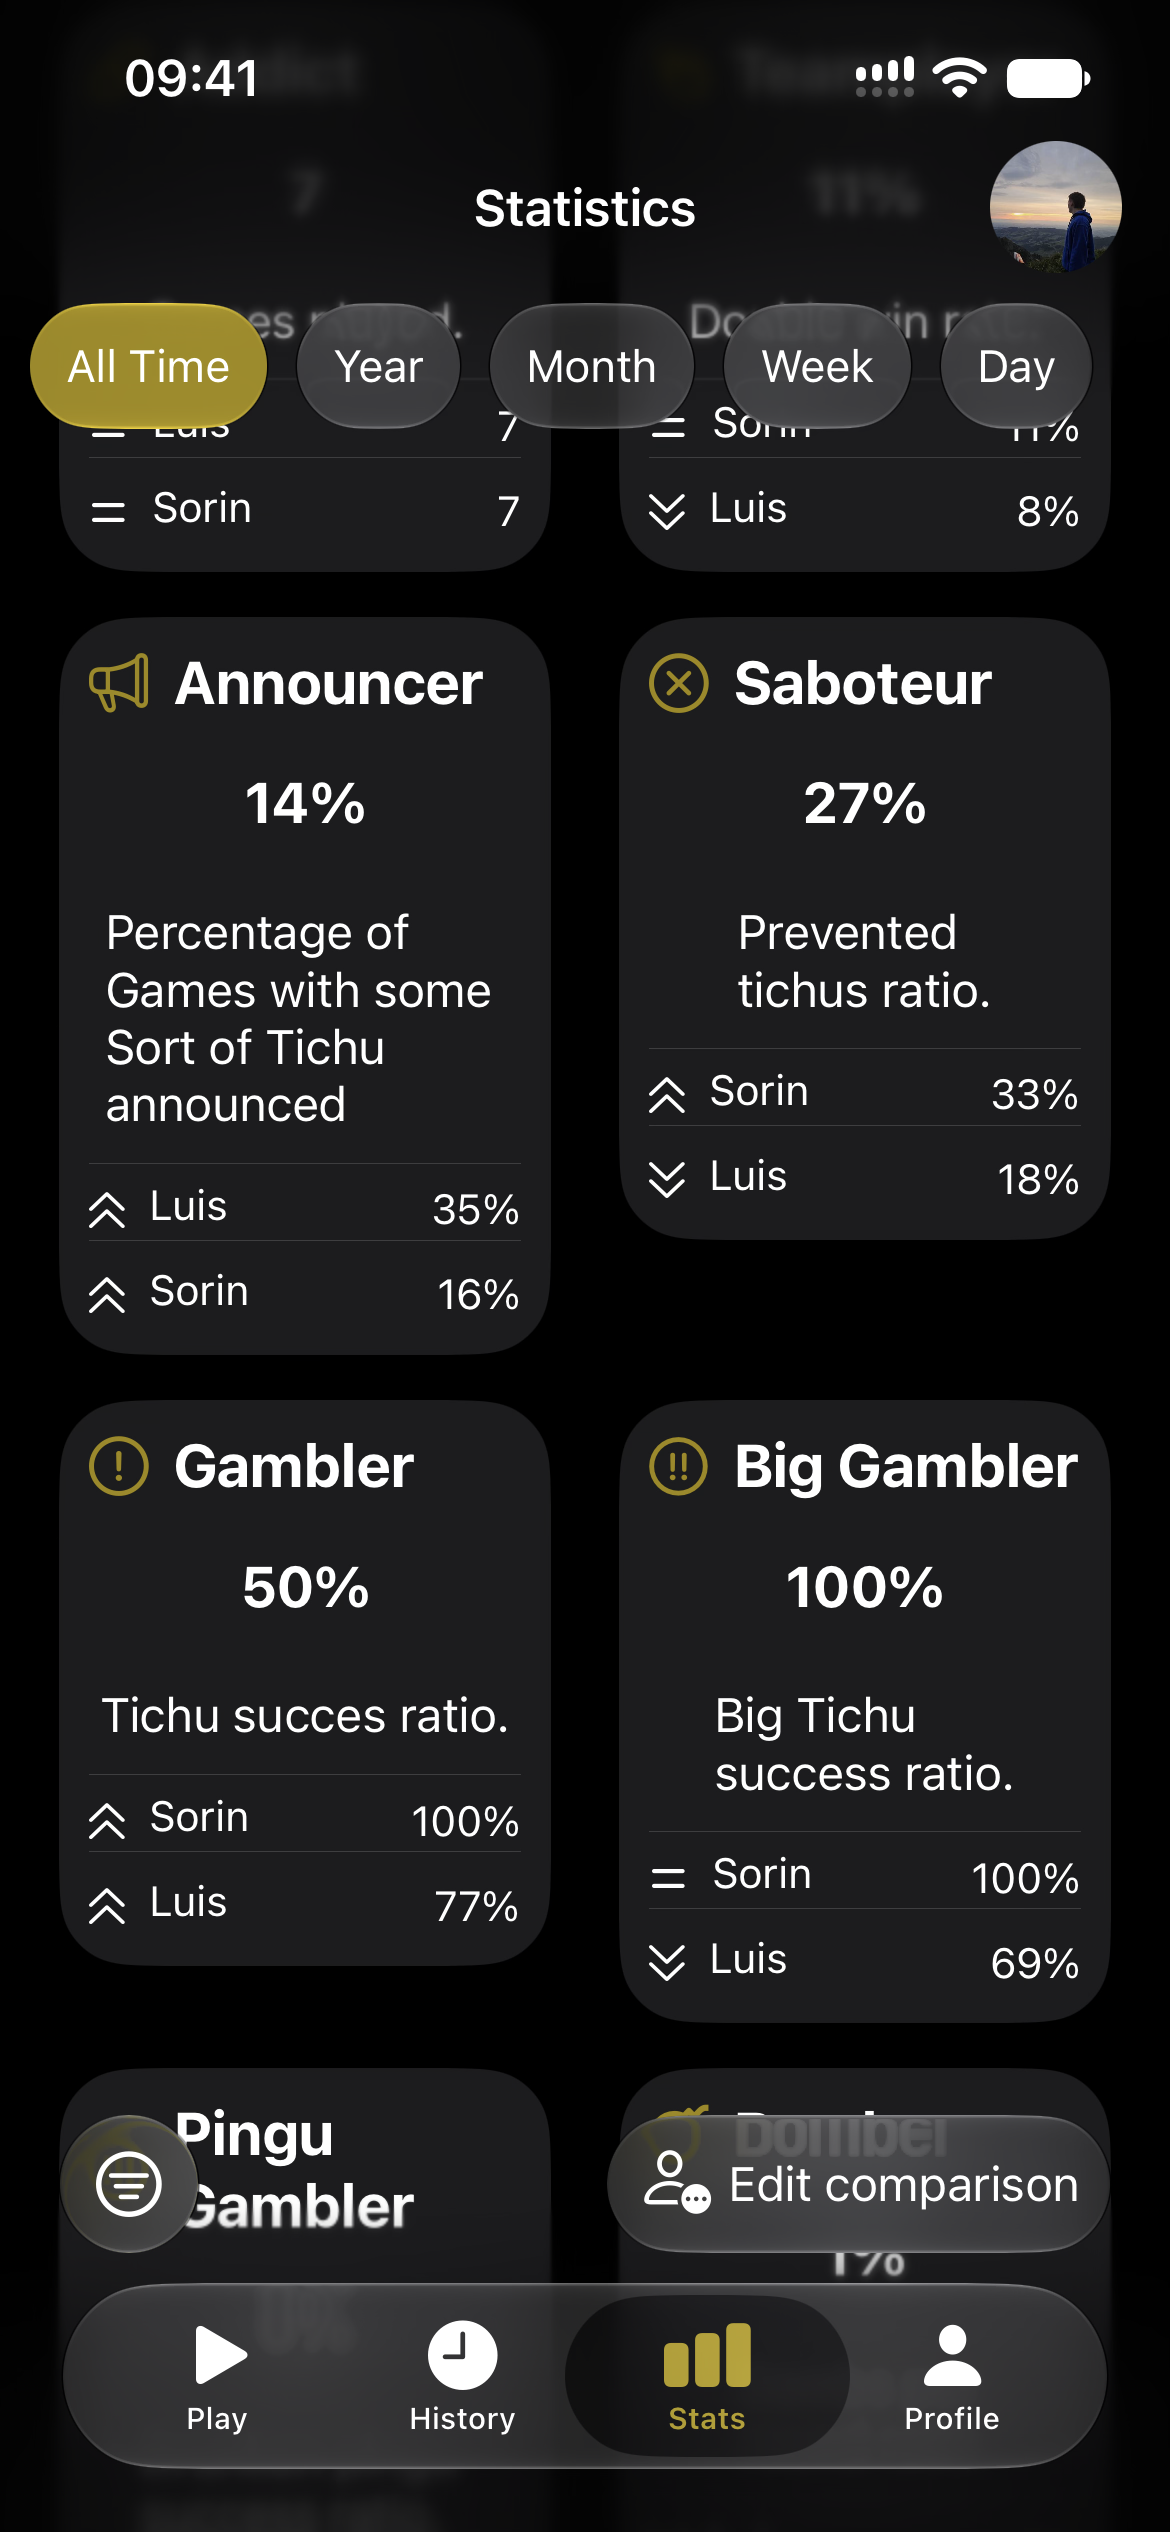
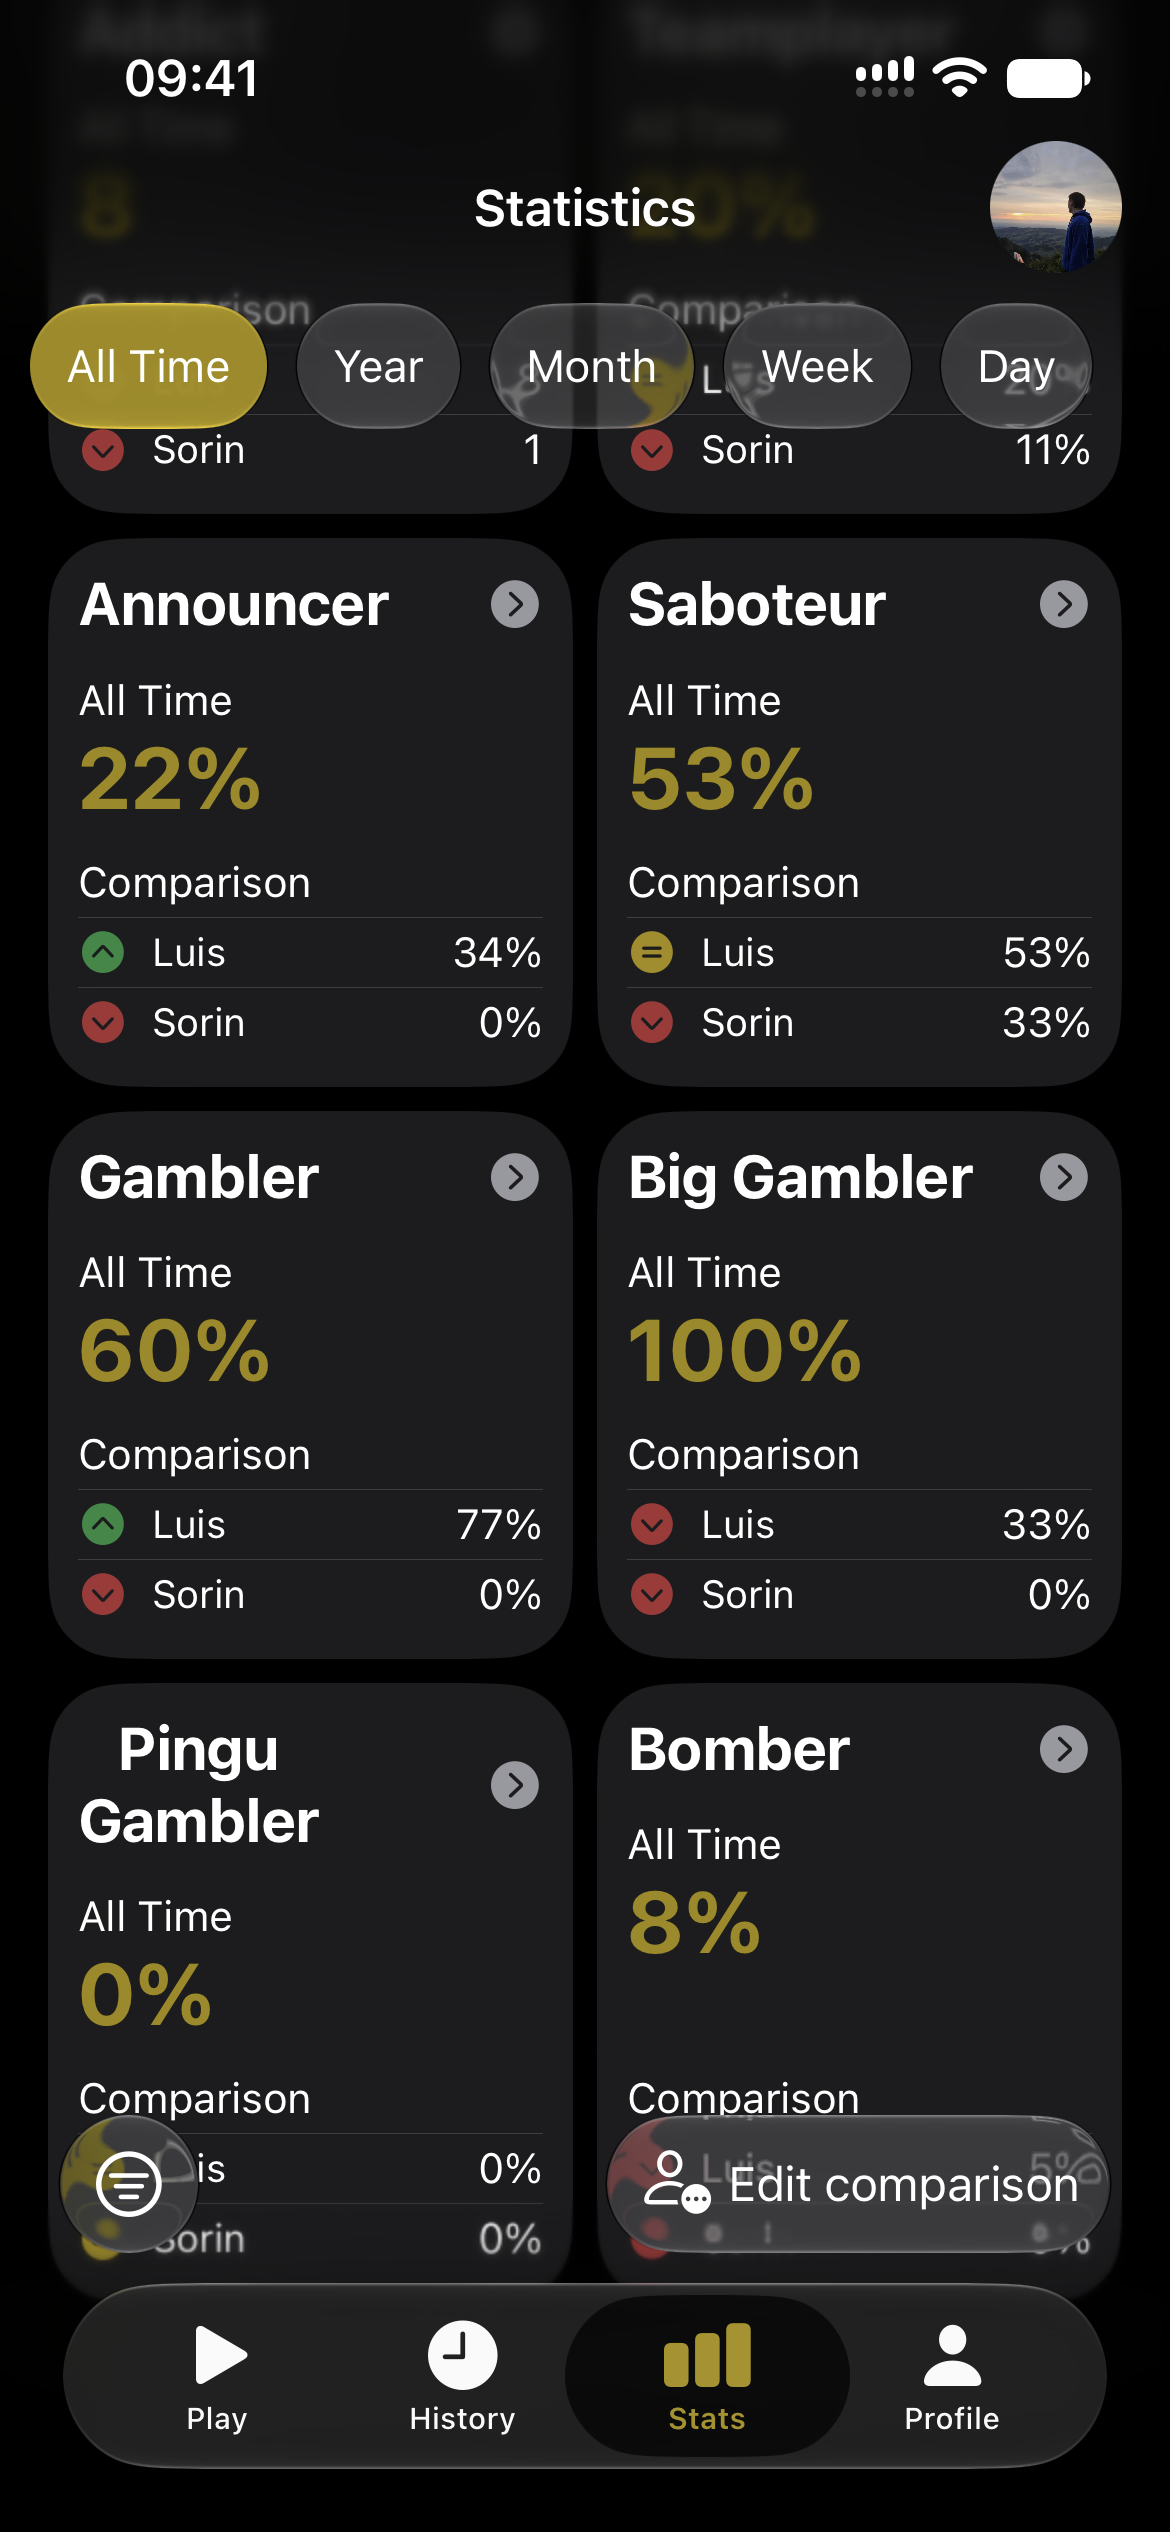
Updated Visuals reflecting changes inside the app

diff --git a/templates/main.html b/templates/main.html
@@ -32,7 +32,7 @@
         <p class="landing-subtitle">TichuStats allows you to effortlessly track scores and analyze your Tichu gameplay. Gain insights into your performance with statistics across five different timeframes, completely free and ad-free.</p>
 
         <div class="store-buttons">
-          <a href="https://www.youtube.com/watch?v=dQw4w9WgXcQ" aria-label="Download on App Store" >
+          <a href="https://testflight.apple.com/join/3gzksEDd" aria-label="Download on App Store" >
             <img src="{{ url_for('static', filename='download/downloadappstore.svg') }}" alt="Download on the App Store" />
           </a>
           <a href="" aria-label="Get it on Google Play" class="store-buttons-disabled">

diff --git a/static/styles.css b/static/styles.css
@@ -640,9 +640,9 @@ main {
 
 .tile-image-stats {
   margin-top: 10%;
-  width: 125%;
-  margin-left: -12.5%;
-  margin-right: -12.5%;
+  width: 200%;
+  margin-left: -50%;
+  margin-right: -30.5%;
   display: flex;
   justify-content: center;
 }
